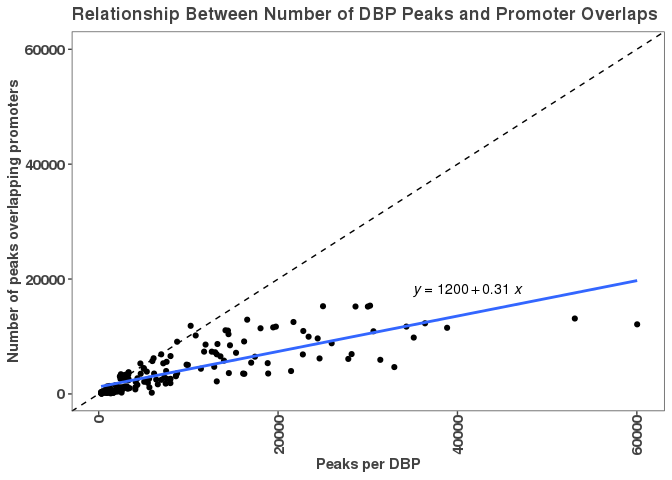
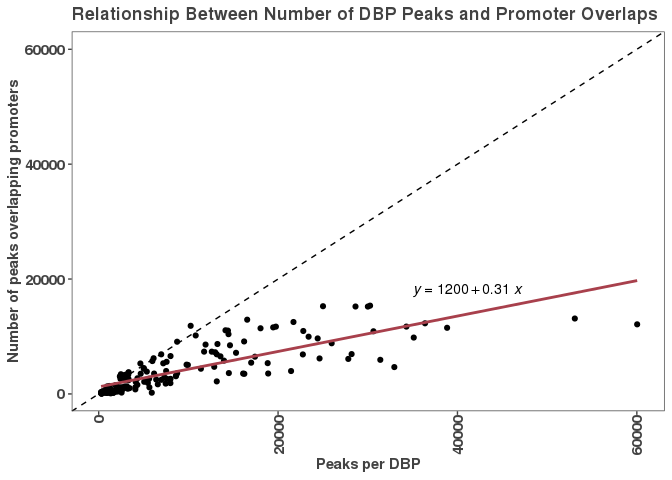
Syncing figures with text.

diff --git a/analysis/01_consensus_peaks/01_consensus_peaks.md b/analysis/01_consensus_peaks/01_consensus_peaks.md
@@ -23,10 +23,31 @@ First, we need to filter out those DBPs that don't have any peaks common in repl
 # Plotting distributions of number of peaks that concur between replicates (note many @ 0)
 num_peaks_df <- data.frame("dbp" = names(consensus_peaks),
                            "num_peaks" = sapply(consensus_peaks, length))
+```
 
+#### DBPs that did not have a single peak in common in replicates
+
+The proteins with zero consensus peaks are: MCM2 MCM5 MCM7 NR3C1 TRIM25
+
+``` r
+# We're going to apply a cutoff at 250 peaks           
+num_peaks_threshold <- 250
+threshold_percentile <- round(ecdf(num_peaks_df$num_peaks)(num_peaks_threshold)*100,1)
+
+filtered_consensus_peaks <- consensus_peaks[num_peaks_df$num_peaks > num_peaks_threshold]
+```
+
+``` r
+### FIGURE: Supplemental 1A
 # Plotting the number of consensus peaks per DBP.
 g <- ggplot(num_peaks_df, aes(x = num_peaks))
 g + geom_histogram(bins = 70) +
+  geom_vline(xintercept = num_peaks_threshold, lty = 2,
+             size = 1.1, color = "#a8404c") +
+  annotate(geom = "text", x = num_peaks_threshold + 3e3, y = 35, 
+           color = "#a8404c", label = paste0("t=", num_peaks_threshold)) +
+    annotate(geom = "text", x = num_peaks_threshold + 2.2e3, y = 32, 
+           color = "#a8404c", label = paste0(round(threshold_percentile,0), "%")) +
   xlab("Number of consensus peaks") +
   ylab("Count") +
   ggtitle("Distribution of number of consensus peaks")
@@ -40,19 +61,7 @@ ggsave("figures/consensus_peaks_histogram.pdf")
 
     ## Saving 7 x 5 in image
 
-#### DBPs that did not have a single peak in common in replicates
-
-The proteins with zero consensus peaks are: MCM2 MCM5 MCM7 NR3C1 TRIM25
-
 Now that we have replicate concordance, we note that 85% of DPBs have &gt;250 peaks in common across replicates, so we make a cutoff there at the 15th percentile.
-
-``` r
-# We're going to apply a cutoff at 250 peaks           
-num_peaks_threshold <- 250
-threshold_percentile <- round(ecdf(num_peaks_df$num_peaks)(num_peaks_threshold)*100,1)
-
-filtered_consensus_peaks <- consensus_peaks[num_peaks_df$num_peaks > num_peaks_threshold]
-```
 
 Since this captures the majority of DPBs and still provides a reasonable number of peaks to work with, we chose a cutoff of 250 peaks. This corresponds to a cutoff at the 15.3th percentile and results in losing the following proteins: ARNT BCLAF1 COPS2 CSDE1 DNMT1 eGFP-ETS2 FOXA1 KAT8 KDM4B MCM2 MCM5 MCM7 NCOA1 NCOA2 NCOA4 NR0B1 NR3C1 NUFIP1 PYGO2 THRA TRIM25 TRIP13 XRCC3 YBX1 YBX3 ZBTB8A ZC3H8 ZNF318 ZNF830
 
@@ -312,16 +321,17 @@ num_peaks_df$peaks_overlapping_promoters <- rowSums(promoter_peak_counts)
 num_peaks_df$peaks_overlapping_lncrna_promoters <- rowSums(promoter_peak_counts[,lncrna_promoters$gene_id])
 num_peaks_df$peaks_overlapping_mrna_promoters <- rowSums(promoter_peak_counts[,mrna_promoters$gene_id])
 
+#### FIGURE: Figure 1C
 # Plotting the number of peaks per DBP and how many promoters were overlapped.
 ggplot(num_peaks_df,
        aes(x = num_peaks, y = peaks_overlapping_promoters)) +
-  scale_color_manual(values = c("#424242", "#a8404c"))+
   xlab("Peaks per DBP") +
   ylab("Number of peaks overlapping promoters") +
   ggtitle("Relationship Between Number of DBP Peaks and Promoter Overlaps")+
   geom_point() +
   geom_abline(slope = 1, linetype="dashed") +
-  geom_smooth(method = "lm", se=F, formula = 'y ~ x') +
+  geom_smooth(method = "lm", se=F, formula = 'y ~ x',
+              color = "#a8404c") +
   stat_regline_equation(label.x = 35000, label.y = 18000) +
   ylim(0,60100) +
   xlim(0,60100)
@@ -379,6 +389,43 @@ ggplot(num_peaks_df,
 ```
 
 ![](01_consensus_peaks_files/figure-markdown_github/peaks_vs_promoter_overlaps-3.png)
+
+``` r
+# Get gene body regions for lncRNA and mRNA
+lncrna_mrna_genebody <- gencode_gr[gencode_gr$type == "gene" & 
+                                     gencode_gr$gene_type %in% c("lncRNA", "protein_coding")]
+
+genebody_peak_counts <- count_peaks_per_feature(lncrna_mrna_genebody, 
+                                                filtered_consensus_peaks, 
+                                                type = "counts")
+
+# Check ordering
+stopifnot(all(rownames(genebody_peak_counts) == num_peaks_df$dbp))
+num_peaks_df$peaks_overlapping_genebody <- rowSums(genebody_peak_counts)
+
+#### FIGURE: Figure 1D
+# Plotting the number of peaks per DBP and how many gene bodies were overlapped.
+ggplot(num_peaks_df,
+       aes(x = num_peaks, y = peaks_overlapping_genebody)) +
+  xlab("Peaks per DBP") +
+  ylab("Number of peaks overlapping genes") +
+  ggtitle("Relationship Between Number of DBP Peaks and Gene Body Overlaps")+
+  geom_point() +
+  geom_abline(slope = 1, linetype="dashed") +
+  geom_smooth(method = "lm", se=F, formula = 'y ~ x',
+              color = "#a8404c") +
+  stat_regline_equation(label.x = 35000, label.y = 18000) +
+  ylim(0,60100) +
+  xlim(0,60100)
+```
+
+![](01_consensus_peaks_files/figure-markdown_github/gene-body-overlap-1.png)
+
+``` r
+ggsave("figures/peak_number_vs_gene_overlap.pdf")
+```
+
+    ## Saving 7 x 5 in image
 
 #### Goal: let's bring all of these data together into a dataframe, that we will keep adding columns to as we go (rows are promoters).
 
